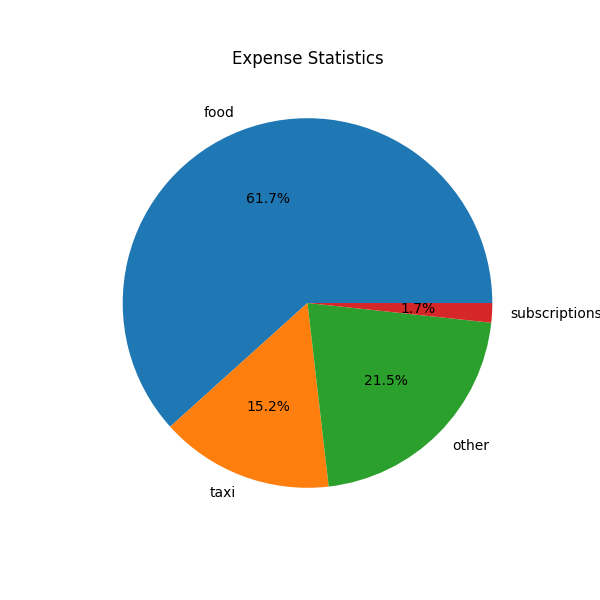
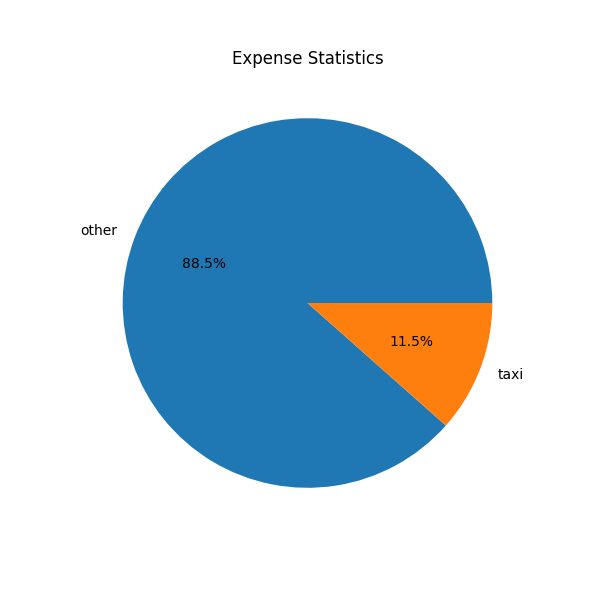
fix delete command

diff --git a/main.py b/main.py
@@ -1034,15 +1034,22 @@ async def show_stats(message: Message):
 
 @dp.message(Command("delete"))
 async def delete_expense(message: Message):
-    text = message.text.split()
 
-    expense_id = int(text[1])
+    try:
+        text = message.text.split()
 
-    delete_expense_db(user_id, expense_id)
+        expense_id = int(text[1])
 
-    await message.answer(
-        f"❌ Видалено витрату #{expense_id}"
-    )
+        user_id = message.from_user.id
+
+        delete_expense_db(user_id, expense_id)
+
+        await message.answer(
+            f"❌ Видалено витрату #{expense_id}"
+        )
+
+    except Exception as e:
+        await message.answer(f"ERROR: {e}")
 
 @dp.message(Command("report"))
 async def report_handler(message: Message):
